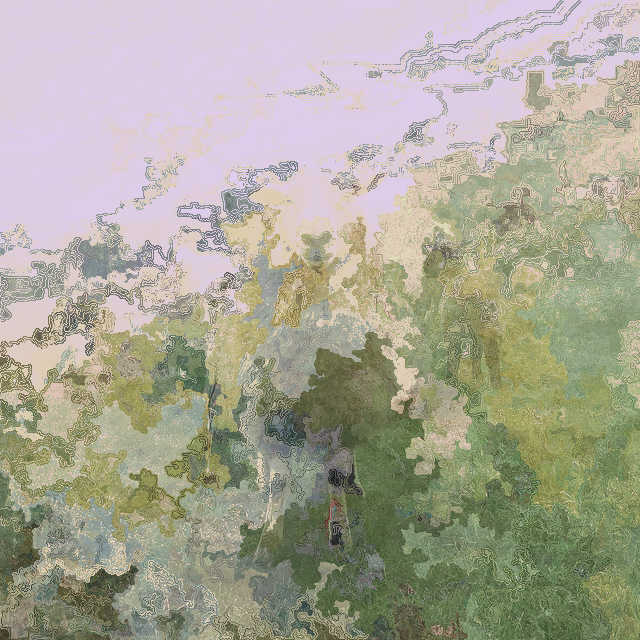
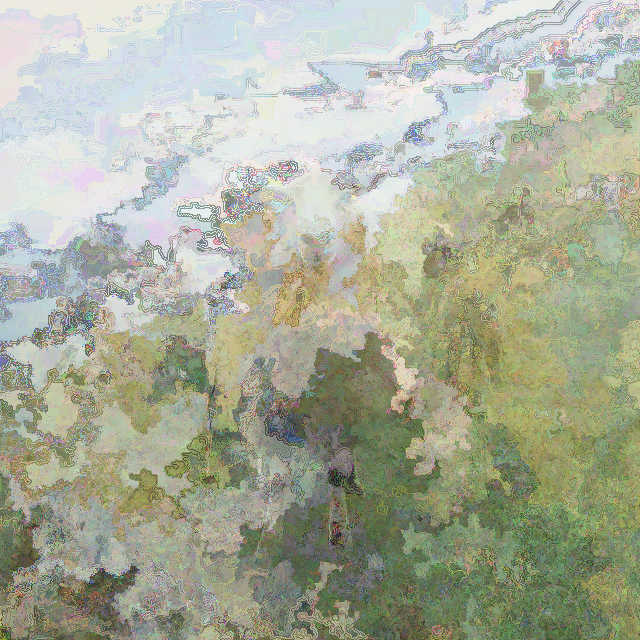
0079 - node --harmony /index.js

diff --git a/sketches/0079/index.js b/sketches/0079/index.js
@@ -170,15 +170,15 @@ co(function*(){
 		var difs = [
 			{
 				color: "red",
-				val : lastColor.red - color.red
+				val : Math.abs(lastColor.red - color.red)
 			},
 			{
 				color: "green",
-				val : lastColor.green - color.green
+				val : Math.abs(lastColor.green - color.green)
 			},
 			{
 				color: "blue",
-				val : lastColor.blue - color.blue
+				val : Math.abs(lastColor.blue - color.blue)
 			}
 		]
 
